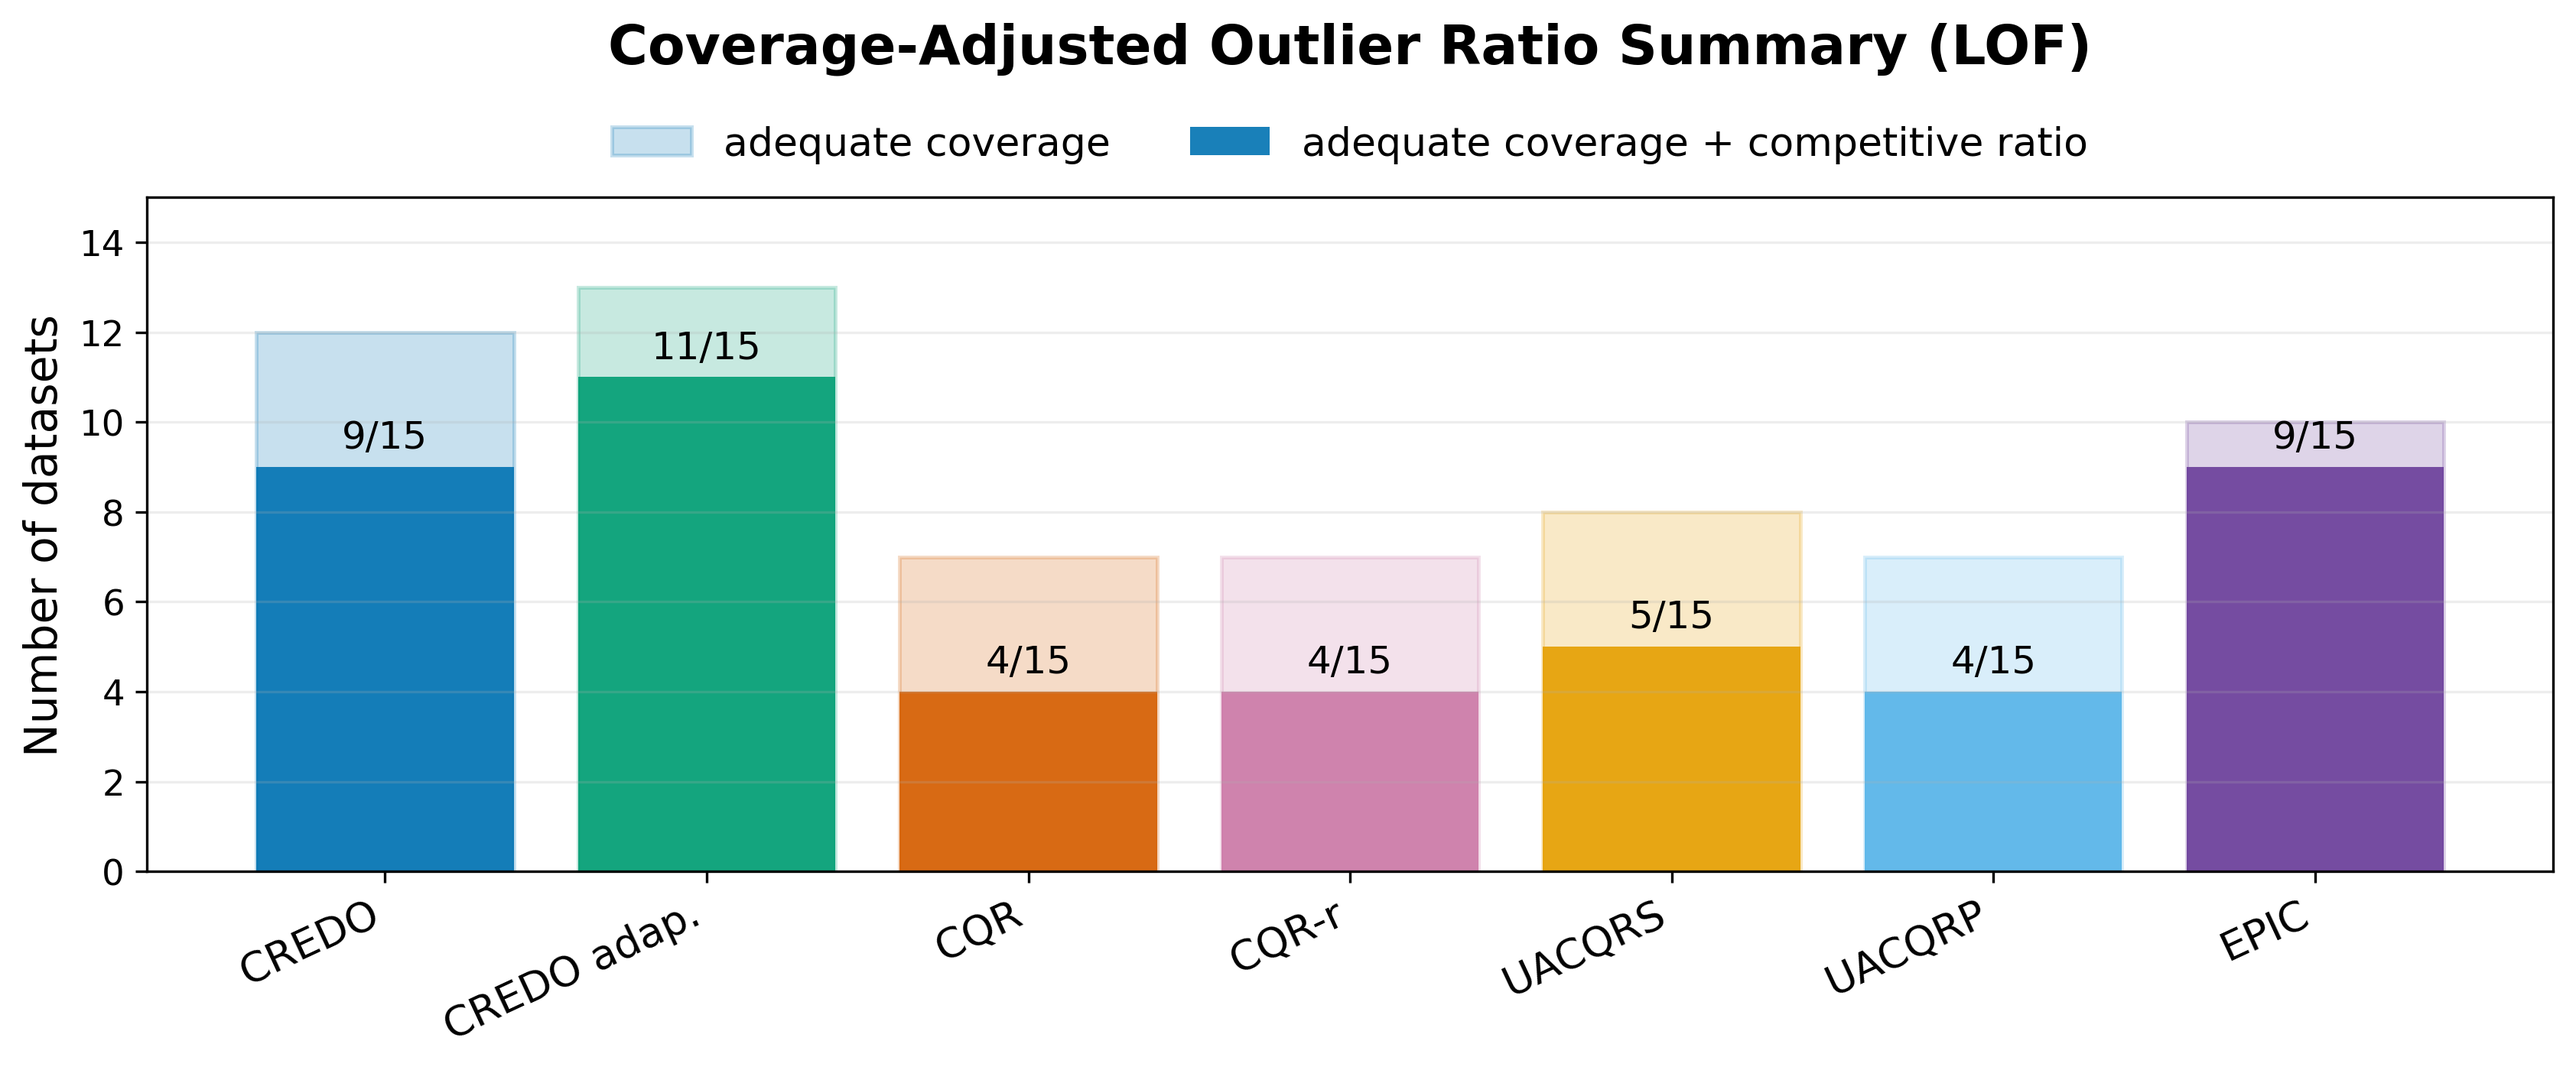
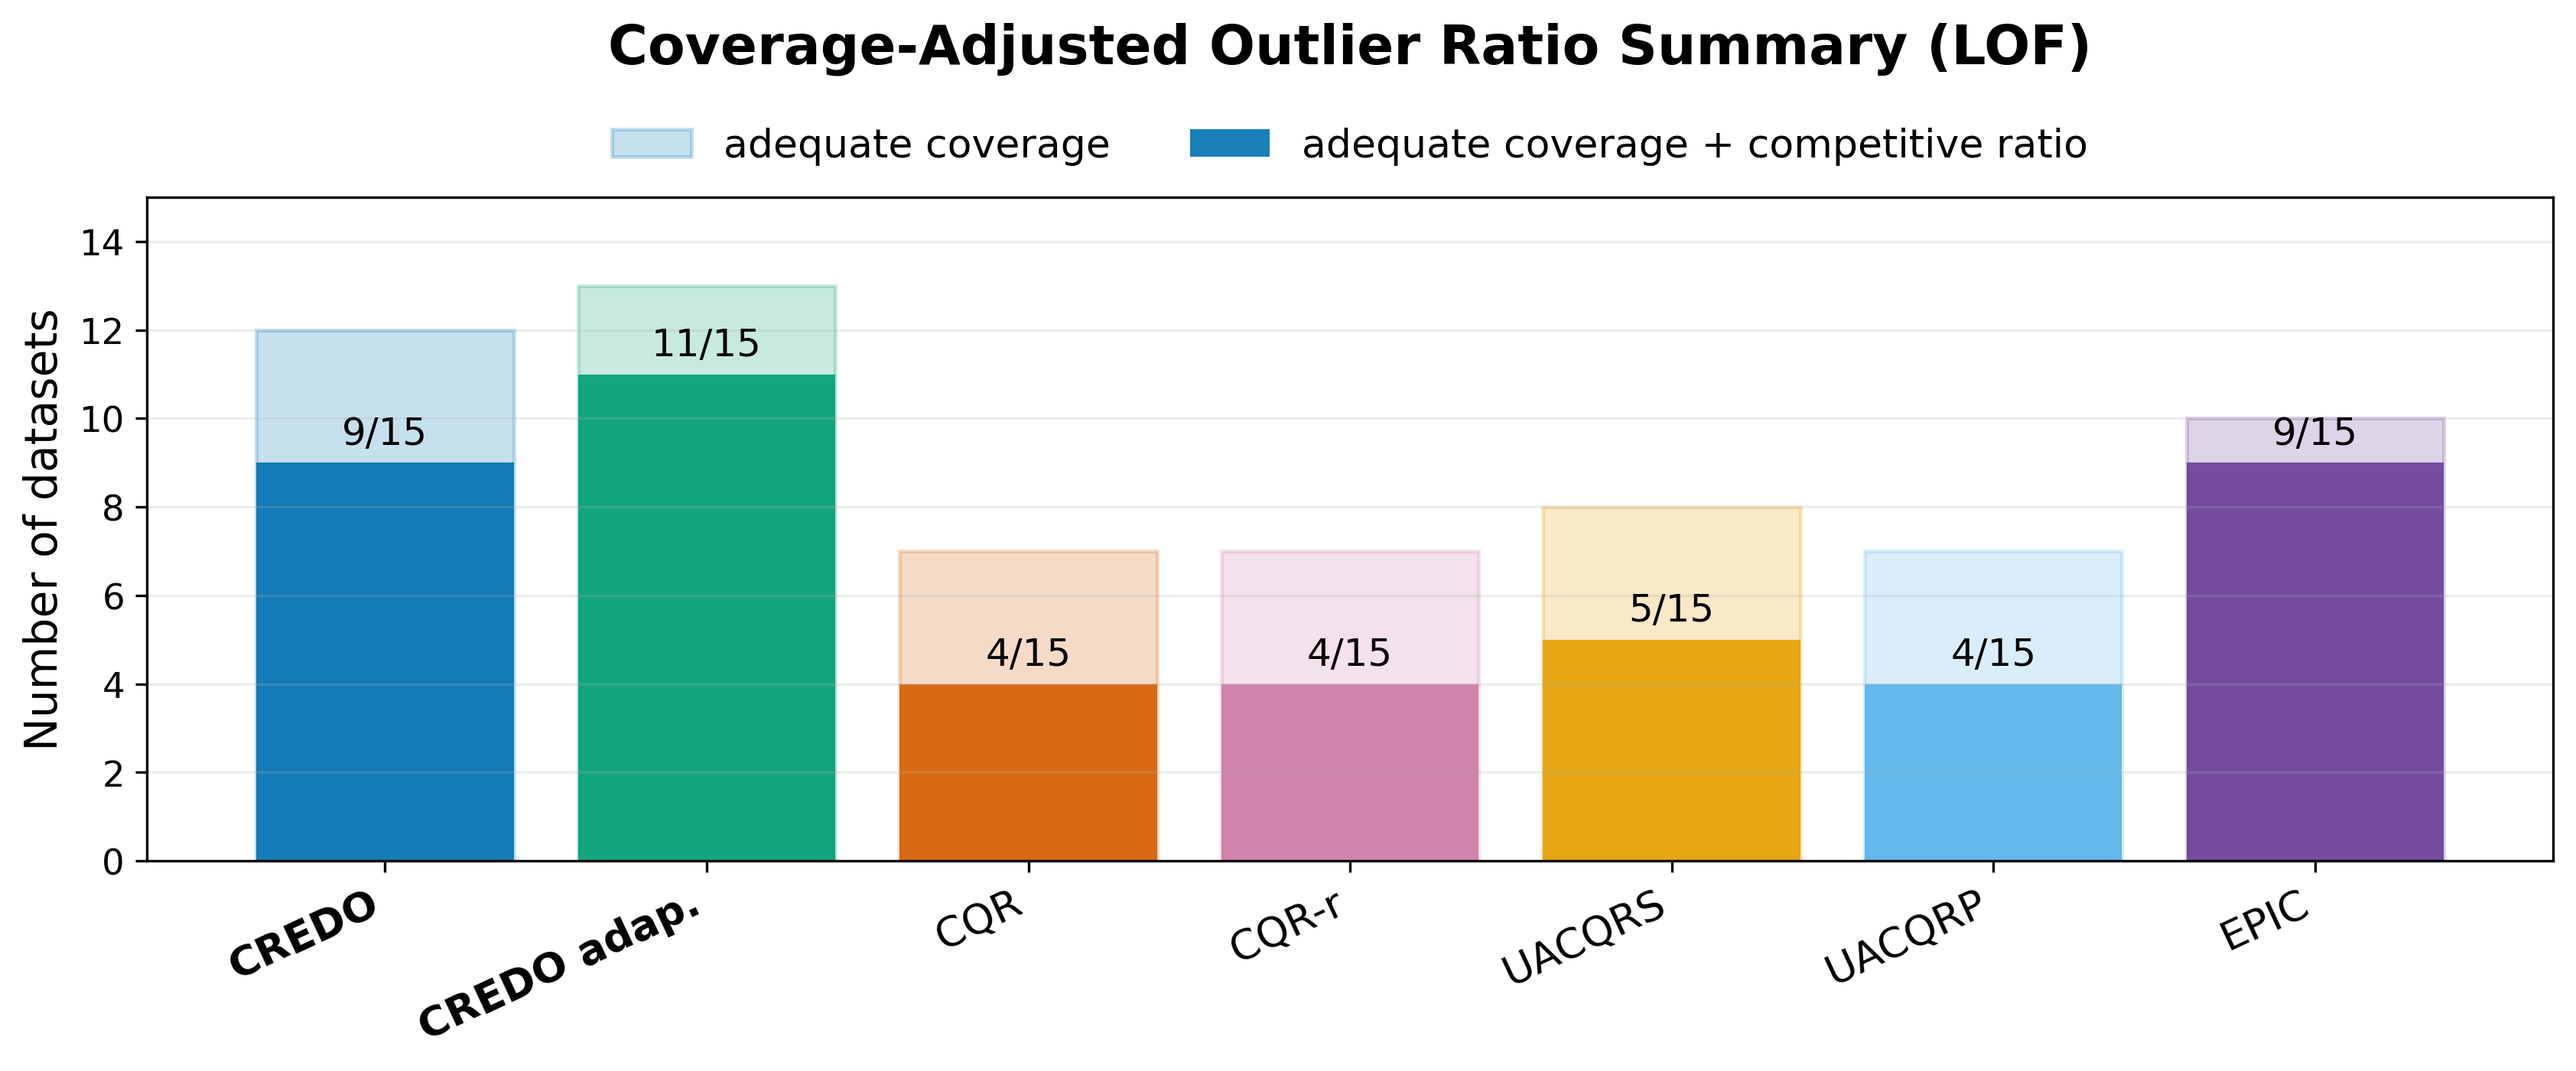
updating every plot and comparison that we are making

diff --git a/comparisons/plot_scarcity_q4_coverage_smis_selection.py b/comparisons/plot_scarcity_q4_coverage_smis_selection.py
@@ -88,6 +88,7 @@ METHOD_COLORS = {
     "UACQRP": "#56B4E9",
     "EPIC": "#6A3D9A",
 }
+EMPHASIZED_METHODS = {"CREDO", "CREDO adap."}
 
 # Display SMIS values in dataset-specific units. A label "x10^4" means the
 # displayed value is the original SMIS divided by 10^4.
@@ -102,14 +103,20 @@ SMIS_SCALE_EXPONENTS = {
 def set_plot_style() -> None:
     plt.rcParams.update(
         {
-            "font.size": 13,
-            "axes.titlesize": 17,
-            "axes.labelsize": 16,
-            "xtick.labelsize": 12.2,
-            "ytick.labelsize": 14,
+            "font.size": 14,
+            "axes.titlesize": 19,
+            "axes.labelsize": 17,
+            "xtick.labelsize": 13.2,
+            "ytick.labelsize": 15,
             "legend.fontsize": 12.5,
         }
     )
+
+
+def emphasize_method_tick_labels(ax: plt.Axes) -> None:
+    for tick_label in [*ax.get_xticklabels(), *ax.get_yticklabels()]:
+        if tick_label.get_text() in EMPHASIZED_METHODS:
+            tick_label.set_fontweight("bold")
 
 
 def interval_intersects(
@@ -248,16 +255,18 @@ def draw_heatmap_panel(
     column_labels: list[str],
     row_labels: list[str],
     highlight_color: str,
+    show_ylabel: bool = True,
 ) -> None:
     cmap = ListedColormap(["#FFFFFF", highlight_color])
     ax.imshow(highlights.astype(int), cmap=cmap, vmin=0, vmax=1, aspect="auto")
-    ax.set_title(title, fontsize=18, pad=12, fontweight="bold")
+    ax.set_title(title, fontsize=19, pad=13, fontweight="bold")
     ax.set_xticks(np.arange(len(column_labels)))
     ax.set_xticklabels(column_labels, rotation=45, ha="right", rotation_mode="anchor")
     ax.set_yticks(np.arange(len(row_labels)))
     ax.set_yticklabels(row_labels)
-    ax.set_xlabel("Datasets", fontsize=16, labelpad=10)
-    ax.set_ylabel("Methods", fontsize=16, labelpad=10)
+    emphasize_method_tick_labels(ax)
+    ax.set_xlabel("Datasets", fontsize=17, labelpad=10)
+    ax.set_ylabel("Methods" if show_ylabel else "", fontsize=17, labelpad=10)
     ax.set_xticks(np.arange(-0.5, len(column_labels), 1), minor=True)
     ax.set_yticks(np.arange(-0.5, len(row_labels), 1), minor=True)
     ax.grid(which="minor", color="#555555", linestyle="-", linewidth=0.65, alpha=0.65)
@@ -272,7 +281,7 @@ def draw_heatmap_panel(
                 format_cell(values[row, col], half_widths[row, col]),
                 ha="center",
                 va="center",
-                fontsize=10.4,
+                fontsize=11.0,
                 color="black",
                 fontweight="bold" if highlights[row, col] else "normal",
                 linespacing=0.95,
@@ -325,7 +334,7 @@ def matrices(datasets: list[str], data: pd.DataFrame) -> dict[str, np.ndarray]:
 def plot_heatmap(datasets: list[str], data: pd.DataFrame, extra_formats: bool) -> None:
     method_labels = [label for _, label in METHODS]
     mats = matrices(datasets, data)
-    fig, axes = plt.subplots(1, 2, figsize=(22, 7.4), constrained_layout=False)
+    fig, axes = plt.subplots(1, 2, figsize=(23.5, 8.0), constrained_layout=False)
     draw_heatmap_panel(
         axes[0],
         mats["coverage_values"],
@@ -335,6 +344,7 @@ def plot_heatmap(datasets: list[str], data: pd.DataFrame, extra_formats: bool) -
         [dataset_label(dataset) for dataset in datasets],
         method_labels,
         "#D99AA5",
+        True,
     )
     draw_heatmap_panel(
         axes[1],
@@ -345,8 +355,9 @@ def plot_heatmap(datasets: list[str], data: pd.DataFrame, extra_formats: bool) -
         [dataset_label(dataset, include_smis_scale=True) for dataset in datasets],
         method_labels,
         "#74A9CF",
+        False,
     )
-    fig.tight_layout(rect=(0, 0.02, 1, 0.985), w_pad=2.2)
+    fig.tight_layout(rect=(0, 0.02, 1, 0.985), w_pad=1.5)
 
     FIGURES_DIR.mkdir(parents=True, exist_ok=True)
     png_path = FIGURES_DIR / "scarcity_q4_coverage_smis_heatmap.png"
@@ -403,6 +414,7 @@ def plot_summary_barplot(datasets: list[str], data: pd.DataFrame, extra_formats:
 
     ax.set_xticks(x)
     ax.set_xticklabels(method_labels, rotation=25, ha="right", fontsize=13)
+    emphasize_method_tick_labels(ax)
     ax.set_ylabel("Number of datasets", fontsize=14)
     ax.set_ylim(0, max(denominator, int(coverage_counts.max()) + 2))
     ax.set_title("Scarcity-Q4 Coverage-Adjusted SMIS Summary", fontsize=17, fontweight="bold", pad=42)

diff --git a/comparisons/plot_outlier_coverage_ratio_heatmap.py b/comparisons/plot_outlier_coverage_ratio_heatmap.py
@@ -59,19 +59,26 @@ METHODS = [
     ("uacqrp", "UACQRP"),
     ("EPIC", "EPIC"),
 ]
+EMPHASIZED_METHODS = {"CREDO", "CREDO adap."}
 
 
 def set_plot_style() -> None:
     plt.rcParams.update(
         {
-            "font.size": 13,
-            "axes.titlesize": 17,
-            "axes.labelsize": 16,
-            "xtick.labelsize": 12.5,
-            "ytick.labelsize": 14,
+            "font.size": 14,
+            "axes.titlesize": 19,
+            "axes.labelsize": 17,
+            "xtick.labelsize": 13.2,
+            "ytick.labelsize": 15,
             "legend.fontsize": 12.5,
         }
     )
+
+
+def emphasize_method_tick_labels(ax: plt.Axes) -> None:
+    for tick_label in [*ax.get_xticklabels(), *ax.get_yticklabels()]:
+        if tick_label.get_text() in EMPHASIZED_METHODS:
+            tick_label.set_fontweight("bold")
 
 
 def detector_suffix(outlier_detector: str) -> str:
@@ -200,13 +207,14 @@ def draw_heatmap_panel(
     cmap = ListedColormap(["#FFFFFF", highlight_color])
     ax.imshow(highlights.astype(int), cmap=cmap, vmin=0, vmax=1, aspect="auto")
 
-    ax.set_title(title, fontsize=18, pad=12, fontweight="bold")
+    ax.set_title(title, fontsize=19, pad=13, fontweight="bold")
     ax.set_xticks(np.arange(len(column_labels)))
     ax.set_xticklabels(column_labels, rotation=45, ha="right", rotation_mode="anchor")
     ax.set_yticks(np.arange(len(row_labels)))
     ax.set_yticklabels(row_labels)
-    ax.set_xlabel(xlabel, fontsize=16, labelpad=10)
-    ax.set_ylabel(ylabel, fontsize=16, labelpad=10)
+    emphasize_method_tick_labels(ax)
+    ax.set_xlabel(xlabel, fontsize=17, labelpad=10)
+    ax.set_ylabel(ylabel, fontsize=17, labelpad=10)
 
     ax.set_xticks(np.arange(-0.5, len(column_labels), 1), minor=True)
     ax.set_yticks(np.arange(-0.5, len(row_labels), 1), minor=True)
@@ -222,7 +230,7 @@ def draw_heatmap_panel(
                 format_cell(values[row, col], half_widths[row, col]),
                 ha="center",
                 va="center",
-                fontsize=10.4,
+                fontsize=11.0,
                 color="black",
                 fontweight="bold" if highlights[row, col] else "normal",
                 linespacing=0.95,
@@ -309,7 +317,7 @@ def plot_heatmap(
             ),
         ]
     else:
-        fig, axes = plt.subplots(1, 2, figsize=(22, 7.4), constrained_layout=False)
+        fig, axes = plt.subplots(1, 2, figsize=(23.5, 8.0), constrained_layout=False)
         panel_specs = [
             (
                 axes[0],
@@ -332,7 +340,7 @@ def plot_heatmap(
                 datasets,
                 method_labels,
                 "Datasets",
-                "Methods",
+                "",
                 ratio_color,
             ),
         ]
@@ -340,7 +348,7 @@ def plot_heatmap(
     for spec in panel_specs:
         draw_heatmap_panel(*spec)
 
-    fig.tight_layout(rect=(0, 0.02, 1, 0.985), w_pad=2.2)
+    fig.tight_layout(rect=(0, 0.02, 1, 0.985), w_pad=1.5)
 
     FIGURES_DIR.mkdir(parents=True, exist_ok=True)
     suffix = detector_suffix(outlier_detector) or "_lof"

diff --git a/comparisons/plot_outlier_coverage_ratio_selection.py b/comparisons/plot_outlier_coverage_ratio_selection.py
@@ -74,6 +74,7 @@ METHOD_COLORS = {
     "UACQRP": "#56B4E9",
     "EPIC": "#6A3D9A",
 }
+EMPHASIZED_METHODS = {"CREDO", "CREDO adap."}
 
 
 def set_plot_style() -> None:
@@ -87,6 +88,12 @@ def set_plot_style() -> None:
             "legend.fontsize": 11.5,
         }
     )
+
+
+def emphasize_method_tick_labels(ax: plt.Axes) -> None:
+    for tick_label in [*ax.get_xticklabels(), *ax.get_yticklabels()]:
+        if tick_label.get_text() in EMPHASIZED_METHODS:
+            tick_label.set_fontweight("bold")
 
 
 def detector_suffix(outlier_detector: str) -> str:
@@ -410,6 +417,7 @@ def plot_summary_barplot(
 
     ax.set_xticks(x)
     ax.set_xticklabels(method_labels, rotation=25, ha="right", fontsize=13)
+    emphasize_method_tick_labels(ax)
     ax.set_ylabel("Number of datasets", fontsize=14)
     ax.set_ylim(0, max(15, int(coverage_counts.max()) + 2))
     ax.set_title(
